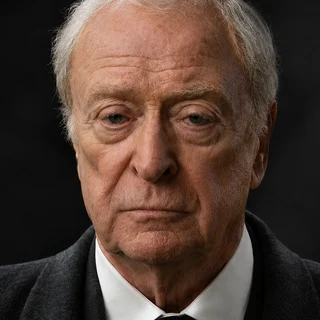
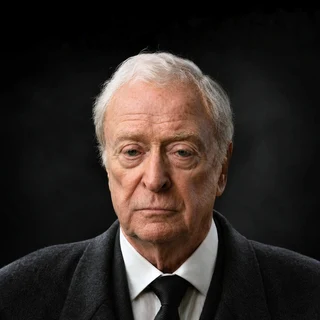
feat(agentes): ajustes de visual pedidos
- Título "Agentes Genesy"; brilho cinza nos cartões dos agentes e da esteira.
- Fotos novas (melhor enquadradas) com contorno branco em gradiente; status no ponto.
- Filtro: pílula branca deslizante com brilho leve, texto escuro na opção ativa.
- Colunas da esteira no estilo do Workspace (contorno em gradiente na cor da etapa,
  ícone com brilho, rótulo em caixa alta, contador).
- Barra lateral dos cards em gradiente branco; tag "Agente IA" menor e de uma cor só.

Claude-Session: https://claude.ai/code/session_01TQtE5uuUY911pd96X2y1vE

diff --git a/src/components/agentes/AgentesBoard.tsx b/src/components/agentes/AgentesBoard.tsx
@@ -1,11 +1,13 @@
 "use client";
 
-import { useMemo, useState, type CSSProperties, type ReactNode } from "react";
+import { useMemo, useState, type ReactNode } from "react";
 import {
   Activity, Bot, Check, CheckCircle2, Cpu, ExternalLink, Hourglass, Inbox, Lightbulb, Loader2, PenLine, RefreshCw, Rocket, Sparkles, Timer,
 } from "lucide-react";
 import { useEsteira } from "@/hooks/useEsteira";
 import { useSegmentIndicator } from "@/components/ui/useSegmentIndicator";
+import { accentBorderStyle } from "@/components/ui/accent-border";
+import "@/components/workspace/workspace-kanban.css";
 import { AGENTES_INFO, colunasDoAgente, indicadores, tempoRelativo } from "@/lib/esteira/board";
 import type { EsteiraAgente, EsteiraAprendizado, EsteiraEtapa, EsteiraEvento, EsteiraItem } from "@/types/esteira";
 
@@ -19,6 +21,9 @@ const VERDE = "#22c55e";
 const LARANJA = "#fb923c";
 const BTN_GREEN = "linear-gradient(135deg, #059669, #10b981 55%, #34d399)";
 const BTN_ORANGE = "linear-gradient(135deg, #ea580c, #f97316 55%, #fb923c)";
+const CINZA: [string, string] = ["#9ca3af", "#6b7280"];
+/** Contorno branco em gradiente das fotos dos agentes. */
+const ANEL = "linear-gradient(145deg, #ffffff, rgba(255,255,255,0.55) 45%, rgba(255,255,255,0.12))";
 const title = { color: "var(--text-title)" } as const;
 const muted = { color: "var(--text-body)" } as const;
 const subtle = { color: "var(--text-subtitle)" } as const;
@@ -41,11 +46,11 @@ const alpha = (hex: string, a: number) => `${hex}${Math.round(a * 255).toString(
 
 /** Ícone e cor de cada etapa da esteira. */
 const ETAPA_UI: Record<EsteiraEtapa, { icon: ReactNode; cor: string }> = {
-  pedido: { icon: <Inbox size={13} />, cor: "#94a3b8" },
+  pedido: { icon: <Inbox size={13} />, cor: "#9ca3af" },
   produzindo: { icon: <Cpu size={13} />, cor: VERDE },
   esperando: { icon: <Hourglass size={13} />, cor: LARANJA },
   aprovado: { icon: <Check size={13} />, cor: "#a78bfa" },
-  no_ar: { icon: <Rocket size={13} />, cor: "#38bdf8" },
+  no_ar: { icon: <Rocket size={13} />, cor: "#27a3ff" },
   concluido: { icon: <CheckCircle2 size={13} />, cor: "#38bdf8" },
   cancelado: { icon: <Check size={13} />, cor: "#64748b" },
 };
@@ -62,12 +67,12 @@ function Glow({ spots }: { spots: Array<{ color: string; className: string; opac
 
 function Avatar({ agente, size = 40, ring, className = "" }: { agente: EsteiraAgente; size?: number; ring?: "vivo" | "espera" | "livre"; className?: string }) {
   const info = AGENTES_INFO[agente];
-  const anel = ring === "vivo" ? VERDE : ring === "espera" ? LARANJA : null;
+  const ponto = ring === "vivo" ? VERDE : ring === "espera" ? LARANJA : "#64748b";
   return (
     <span className={`relative inline-flex flex-none ${className}`} style={{ width: size, height: size }}>
       <span
-        className="absolute inset-0 rounded-full p-[2px]"
-        style={{ background: anel ? `conic-gradient(from 180deg, ${anel}, ${alpha(anel, 0.15)}, ${anel})` : grad(agente) }}
+        className="absolute inset-0 rounded-full p-[2px] [.light_&]:shadow-[0_0_0_1px_rgba(0,0,0,0.1)]"
+        style={{ background: ANEL }}
       >
         {/* eslint-disable-next-line @next/next/no-img-element */}
         <img src={info.foto} alt={info.nome} width={size} height={size} className="h-full w-full rounded-full object-cover" style={{ background: "#0b0b0c" }} />
@@ -76,7 +81,7 @@ function Avatar({ agente, size = 40, ring, className = "" }: { agente: EsteiraAg
         <span
           aria-hidden
           className={`absolute bottom-0 right-0 rounded-full ${ring === "vivo" ? "esteira-vivo" : ""}`}
-          style={{ width: Math.max(9, size * 0.24), height: Math.max(9, size * 0.24), background: anel ?? "#64748b", border: "2px solid var(--background, #000)" }}
+          style={{ width: Math.max(9, size * 0.24), height: Math.max(9, size * 0.24), background: ponto, border: "2px solid var(--background, #000)" }}
         />
       )}
     </span>
@@ -197,9 +202,7 @@ function AoVivo({ conectado }: { conectado: boolean }) {
 }
 
 function FiltroAgentes({ value, onChange }: { value: Filtro; onChange: (f: Filtro) => void }) {
-  const fundo = value === "todos" ? BTN_GREEN : grad(value);
-  const sombra = value === "todos" ? "rgba(16,185,129,.35)" : alpha(AGENTES_INFO[value].cor, 0.35);
-  const seg = useSegmentIndicator({ background: fundo, boxShadow: `0 6px 18px ${sombra}`, transitionProperty: "transform, width, height, background, box-shadow" } as CSSProperties);
+  const seg = useSegmentIndicator({ background: "linear-gradient(180deg, #ffffff, #e9ebee)", boxShadow: "0 6px 18px rgba(255,255,255,.22), 0 1px 3px rgba(0,0,0,.18)" });
   const opcoes: Filtro[] = ["todos", ...AGENTES];
   return (
     <div ref={seg.trackRef} role="group" aria-label="Filtrar por agente" className="lc-card relative flex h-11 items-center gap-0.5 !rounded-xl p-1">
@@ -214,7 +217,7 @@ function FiltroAgentes({ value, onChange }: { value: Filtro; onChange: (f: Filtr
             data-active={ativo}
             onClick={() => onChange(f)}
             className="relative z-[1] flex h-full items-center gap-1.5 rounded-lg px-2.5 text-xs font-semibold transition-colors duration-300 sm:px-3"
-            style={{ color: ativo ? "#fff" : "var(--text-subtitle)" }}
+            style={{ color: ativo ? "#0b0b0c" : "var(--text-subtitle)" }}
           >
             {f === "todos" ? <Bot size={15} /> : <Avatar agente={f} size={22} />}
             <span className={f === "todos" ? "" : "hidden sm:inline"}>{f === "todos" ? "Todos" : AGENTES_INFO[f].nome.split(" ")[0]}</span>
@@ -248,16 +251,16 @@ function CartaoAgente({ agente, itens, agora }: { agente: EsteiraAgente; itens: 
   return (
     <article className="lc-card relative overflow-hidden p-4 sm:p-5">
       <Glow spots={[
-        { color: info.gradiente[1], className: "-right-24 -top-28 h-72 w-72", opacity: 0.22 },
-        { color: info.gradiente[0], className: "-bottom-32 -left-20 h-64 w-64", opacity: 0.12 },
+        { color: CINZA[0], className: "-right-24 -top-28 h-72 w-72", opacity: 0.2 },
+        { color: CINZA[1], className: "-bottom-32 -left-20 h-64 w-64", opacity: 0.12 },
       ]} />
       <div className="relative flex items-center gap-4">
         <Avatar agente={agente} size={68} ring={status.ring} />
         <div className="min-w-0 flex-1">
           <div className="flex flex-wrap items-center gap-2">
             <h2 className="text-lg font-semibold tracking-tight" style={title}>{info.nome}</h2>
-            <span className="inline-flex items-center gap-1 rounded-full px-2 py-0.5 text-[10px] font-bold uppercase tracking-wide text-white" style={{ background: grad(agente) }}>
-              <Bot size={11} /> Agente IA
+            <span className="inline-flex items-center gap-1 rounded-full border border-white/15 bg-white/10 px-1.5 py-px text-[9px] font-bold uppercase tracking-wider text-white/80 [.light_&]:border-black/10 [.light_&]:bg-black/5 [.light_&]:text-black/60">
+              <Bot size={10} /> Agente IA
             </span>
           </div>
           <p className="truncate text-xs" style={muted}>{info.papel}</p>
@@ -329,7 +332,7 @@ function Esteira({ agente, itens, agora, decidir }: { agente: EsteiraAgente; ite
   const total = colunas.reduce((s, c) => s + c.itens.length, 0);
   return (
     <div className="lc-card relative overflow-hidden p-4">
-      <Glow spots={[{ color: info.gradiente[1], className: "-left-24 -top-32 h-72 w-72", opacity: 0.1 }]} />
+      <Glow spots={[{ color: CINZA[0], className: "-left-24 -top-32 h-72 w-72", opacity: 0.1 }]} />
       <div className="relative mb-3.5 flex items-center gap-3">
         <Avatar agente={agente} size={36} ring={status.ring} />
         <div className="min-w-0">
@@ -345,17 +348,19 @@ function Esteira({ agente, itens, agora, decidir }: { agente: EsteiraAgente; ite
             return (
               <div
                 key={col.etapa}
-                className="flex min-h-[170px] flex-col gap-2 rounded-2xl p-2 transition-colors"
-                style={espera
-                  ? { background: "linear-gradient(180deg, rgba(251,146,60,0.12), rgba(251,146,60,0.03))", border: "1px solid rgba(251,146,60,0.4)" }
-                  : { background: "var(--hover)", border: "1px solid var(--glass-border)" }}
+                className="workspace-stage-column app-accent-border flex min-h-[200px] flex-col gap-2 rounded-[20px] p-2.5 transition-all duration-200"
+                style={{
+                  background: "var(--glass-bg-soft)",
+                  backdropFilter: "blur(14px) saturate(140%)",
+                  border: "1px solid var(--border-card)",
+                  ...accentBorderStyle(ui.cor),
+                  boxShadow: espera ? `0 8px 28px ${alpha(ui.cor, 0.16)}, inset 0 1px 0 rgba(255,255,255,0.06)` : "0 4px 20px var(--shadow-sm), inset 0 1px 0 rgba(255,255,255,0.04)",
+                }}
               >
-                <div className="flex items-center justify-between gap-2 px-1 pb-1 pt-0.5">
-                  <span className={`flex min-w-0 items-center gap-1.5 text-xs font-semibold ${espera ? TXT.laranja : ""}`} style={espera ? undefined : subtle}>
-                    <span className="grid h-5 w-5 flex-none place-items-center rounded-md" style={{ background: alpha(ui.cor, 0.16), color: ui.cor }}>{ui.icon}</span>
-                    <span className="truncate">{col.label}</span>
-                  </span>
-                  <span className="min-w-[20px] rounded-full px-1.5 text-center text-[11px] font-semibold tabular-nums" style={col.itens.length ? { background: alpha(ui.cor, 0.18), color: ui.cor } : muted}>{col.itens.length}</span>
+                <div className="flex items-center gap-1.5 px-0.5 pb-1.5 pt-1">
+                  <span className="grid h-6 w-6 flex-none place-items-center rounded-lg" style={{ background: alpha(ui.cor, 0.16), border: `1px solid ${alpha(ui.cor, 0.22)}`, boxShadow: `0 8px 22px ${alpha(ui.cor, 0.16)}`, color: ui.cor }}>{ui.icon}</span>
+                  <span className="min-w-0 flex-1 truncate text-[10px] font-semibold uppercase tracking-wide" style={{ color: "var(--text-card-secondary)" }}>{col.label}</span>
+                  <span className="min-w-[20px] flex-none rounded-full px-1.5 py-0.5 text-center text-[11px] font-semibold tabular-nums" style={{ background: alpha(ui.cor, 0.16), color: ui.cor }}>{col.itens.length}</span>
                 </div>
                 {col.itens.length === 0 && <span className="m-auto text-[11px]" style={{ color: "var(--text-muted)" }}>—</span>}
                 {col.itens.map((item) => <CardItem key={item.id} item={item} agente={agente} agora={agora} decidir={decidir} />)}
@@ -398,7 +403,7 @@ function CardItem({ item, agente, agora, decidir }: { item: EsteiraItem; agente:
         boxShadow: vivo ? "0 0 22px rgba(34,197,94,0.14)" : espera ? "0 0 22px rgba(251,146,60,0.16)" : "0 4px 18px rgba(0,0,0,0.18)",
       }}
     >
-      <span aria-hidden className="absolute bottom-0 left-0 top-0 w-[3px]" style={{ background: grad(agente, 180) }} />
+      <span aria-hidden className="absolute bottom-2 left-0 top-2 w-[3px] rounded-r-full bg-[linear-gradient(180deg,#ffffff,rgba(255,255,255,0.12))] [.light_&]:bg-[linear-gradient(180deg,#9ca3af,rgba(156,163,175,0.15))]" />
       <div className="flex justify-between gap-2 text-[11px]" style={muted}>
         <span className={`truncate font-medium ${AG_TXT[agente]}`}>{item.cliente ?? "—"}</span>
         <span className="flex-none">{tempoRelativo(item.etapa_desde, agora)}</span>

diff --git a/src/app/agentes/page.tsx b/src/app/agentes/page.tsx
@@ -11,7 +11,7 @@ export default function AgentesPage() {
   return (
     <div className="dashboard-geral-bg">
       <div className="mx-auto max-w-[1400px] space-y-5 px-4 pb-28 sm:px-6">
-        <Header title="Agentes" subtitle="O Alfred e o Bruce trabalhando agora, do seu pedido até o que está no ar." />
+        <Header title="Agentes Genesy" subtitle="O Alfred e o Bruce trabalhando agora, do seu pedido até o que está no ar." />
         {isLoading ? (
           <div className="lc-card h-72 animate-pulse" />
         ) : allowed ? (
